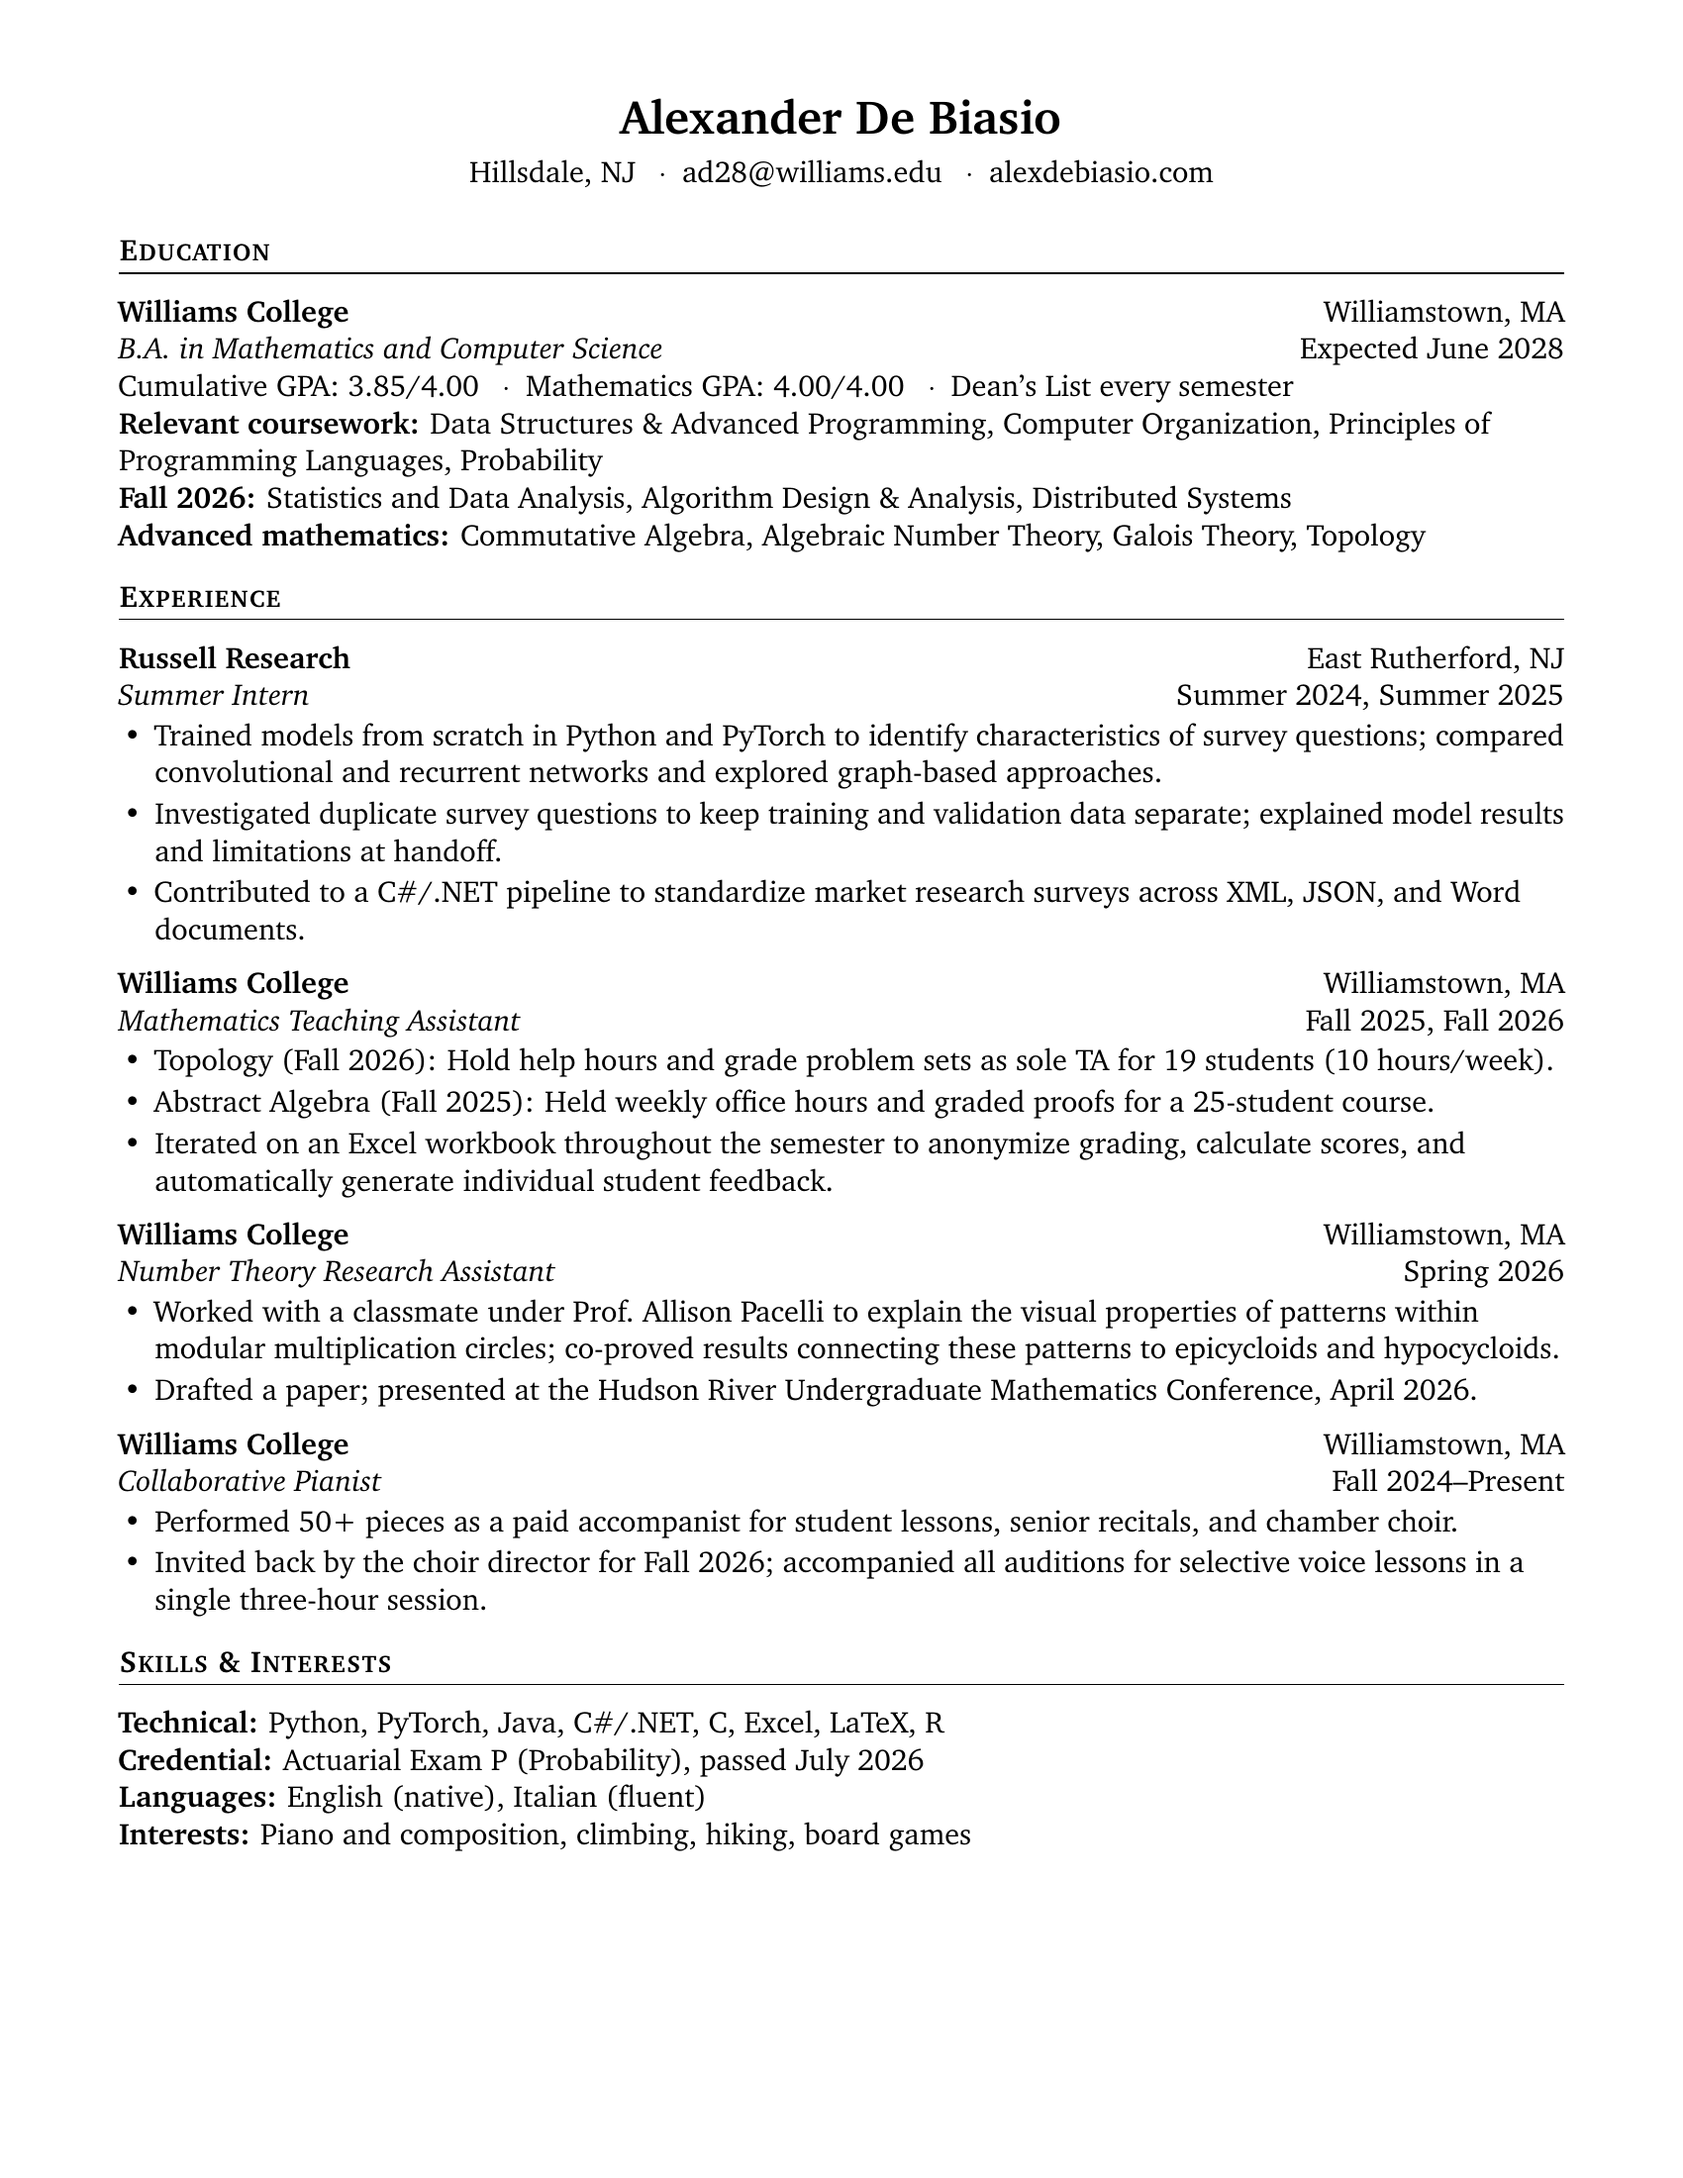
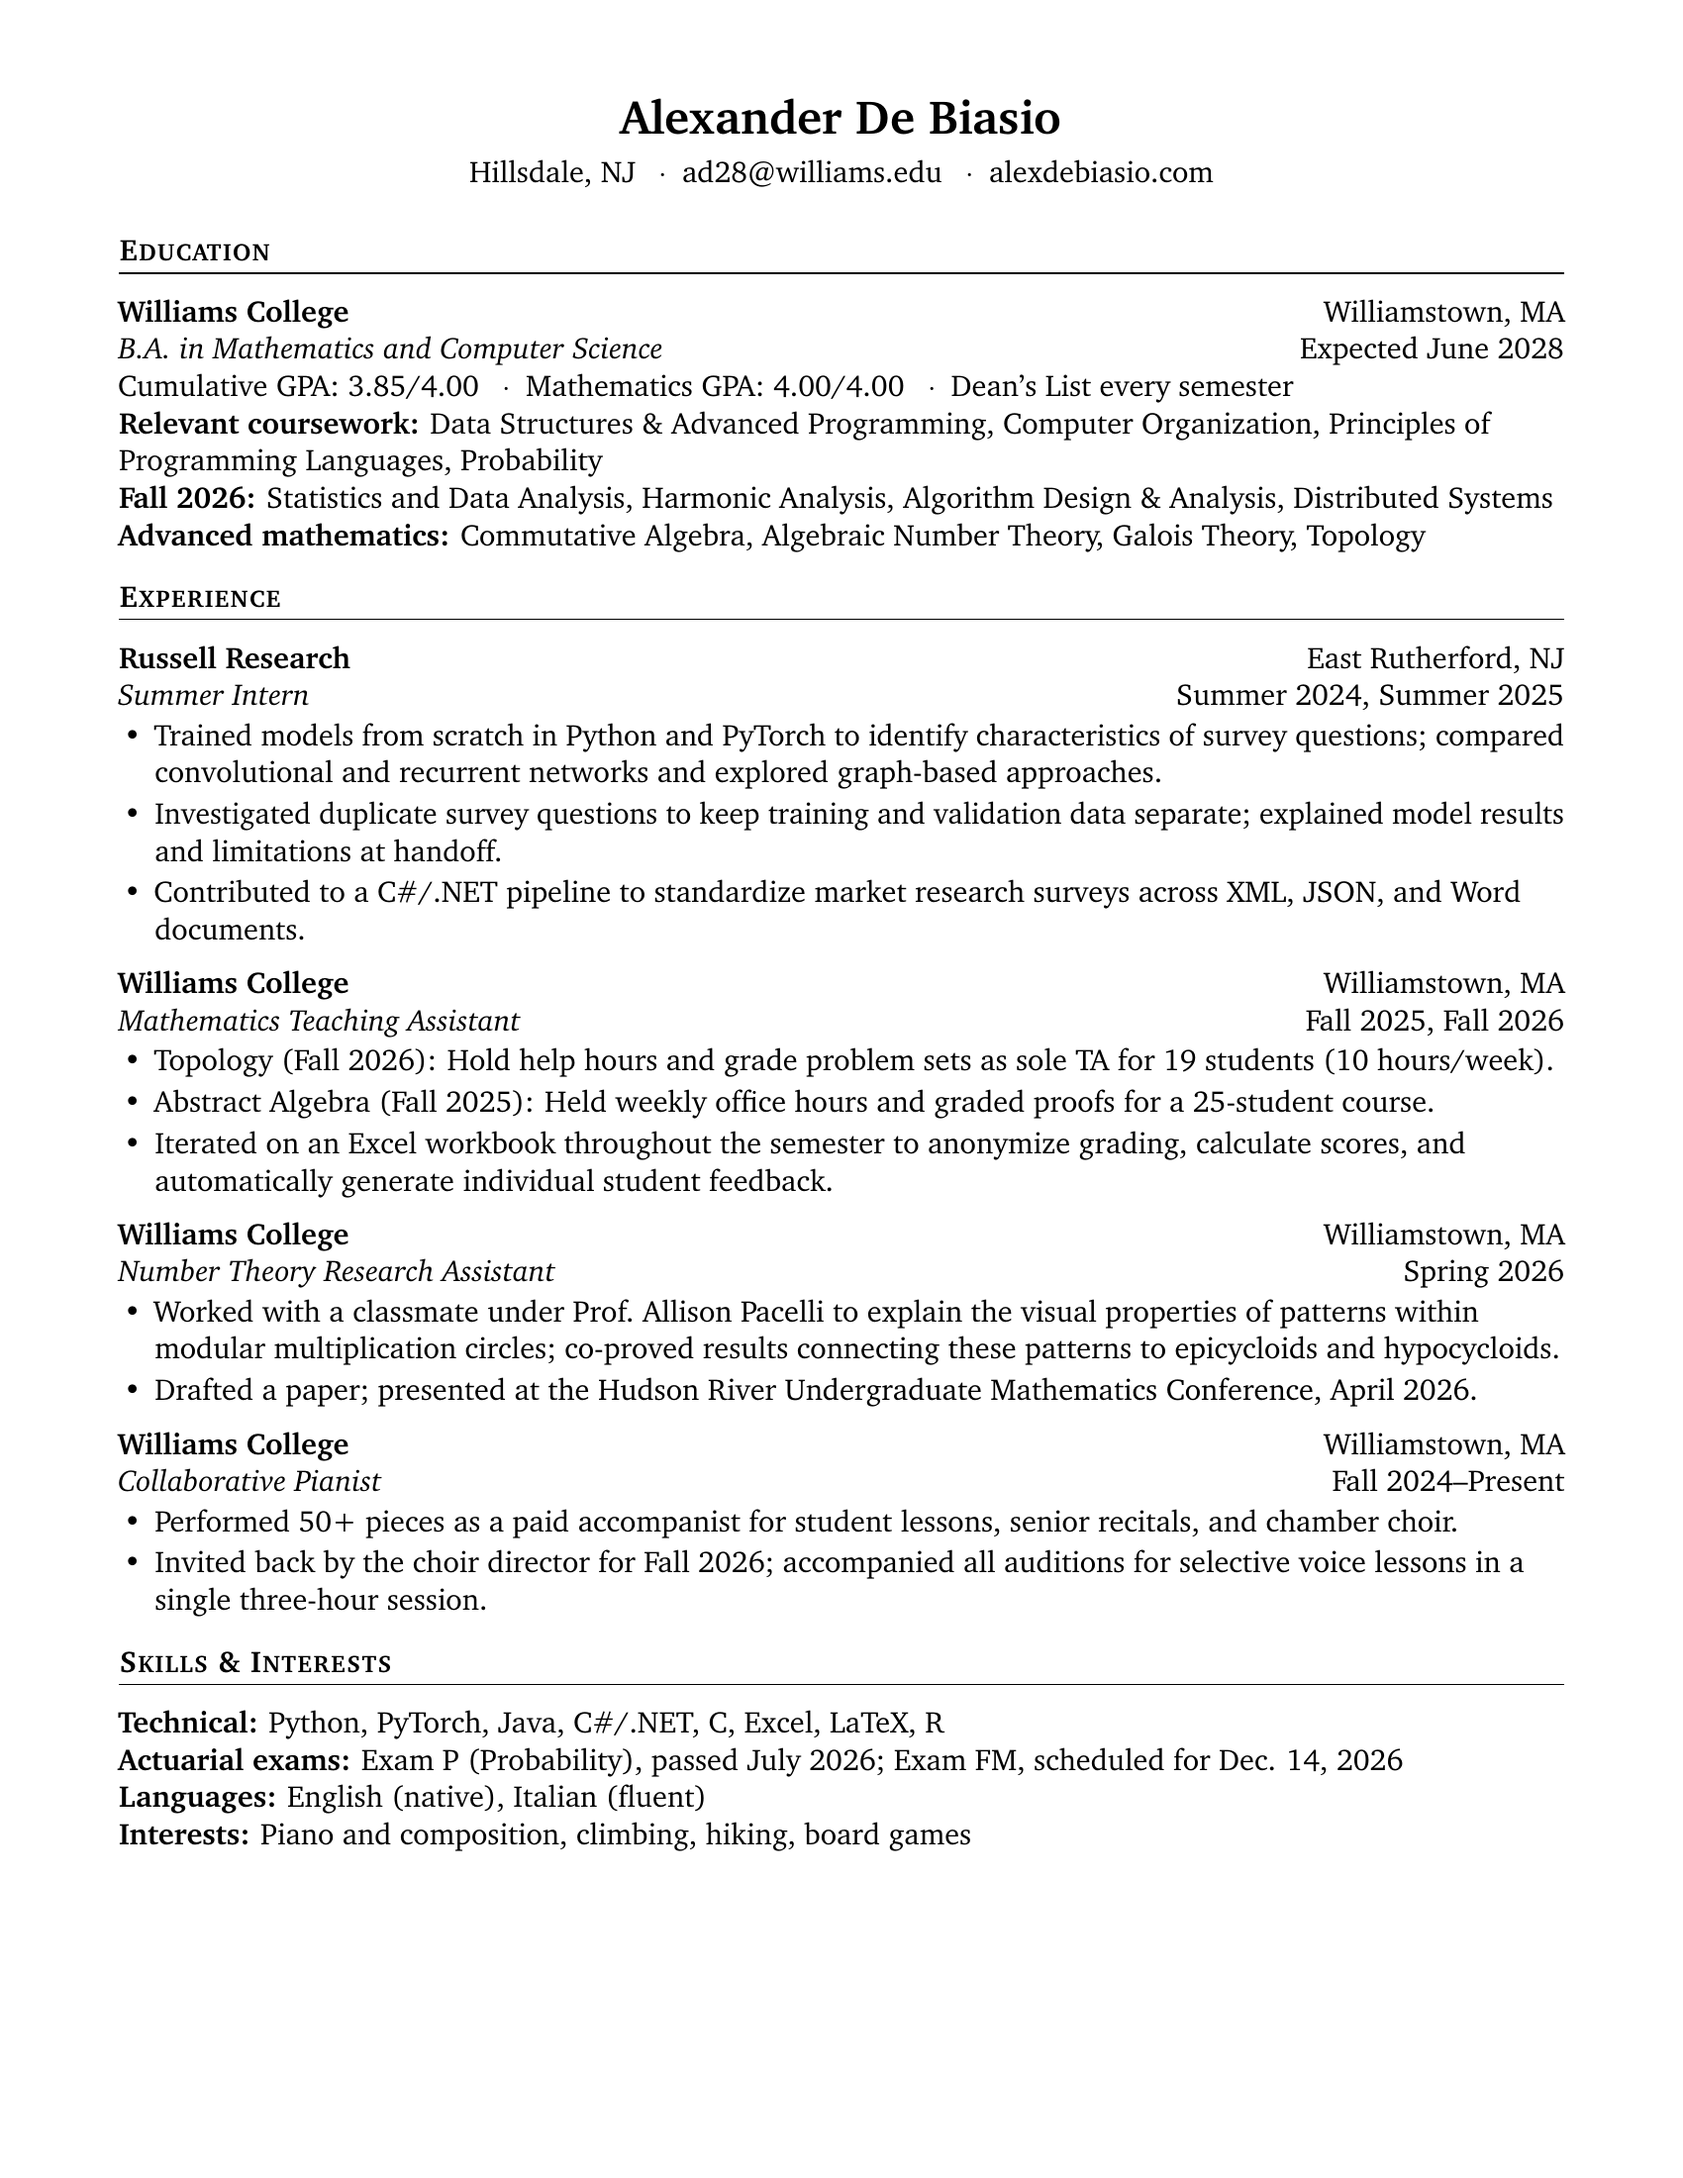
Add Exam FM and Harmonic Analysis to résumé

Changed region(s): [[0.3741, 0.2164, 0.9041, 0.2473], [0.0624, 0.8036, 0.5612, 0.8345], [0.6235, 0.8036, 0.6859, 0.8345]]

diff --git a/content/pages/home.md b/content/pages/home.md
@@ -5,7 +5,7 @@ description: Alex De Biasio, a mathematics and computer science student at Willi
 
 <p class="lede">I’m a mathematics and computer science student at Williams College and a pianist.<span class="marginnote"><img src="/images/profile.jpg" alt="Alex De Biasio" width="180" height="266">Class of 2028.</span></p>
 
-This semester I'm the teaching assistant for Topology, I accompany the Williams choir and the gospel choir, and I'm taking a tutorial on harmonic analysis through music. In the summers I've worked at Russell Research,^[A market research firm in East Rutherford, New Jersey.] first training machine-learning models and then building data pipelines.
+This semester I'm the teaching assistant for Topology, I accompany the Williams choir and the gospel choir, and I'm taking a tutorial on harmonic analysis through music. In the summers I've worked at Russell Research,^[A market research firm in East Rutherford, New Jersey.] first training machine-learning models and then building a data pipeline.
 
 This site collects my [technical work](/technical/), my [mathematics](/mathematics/),^[Most recently, research with Prof. Allison Pacelli on modular multiplication circles. The mark at the top of every page is one of them.] and my [music](/music/). There's also a [CV](/cv/), and a [now](/now/) page if you're curious what I've been up to lately.
 
